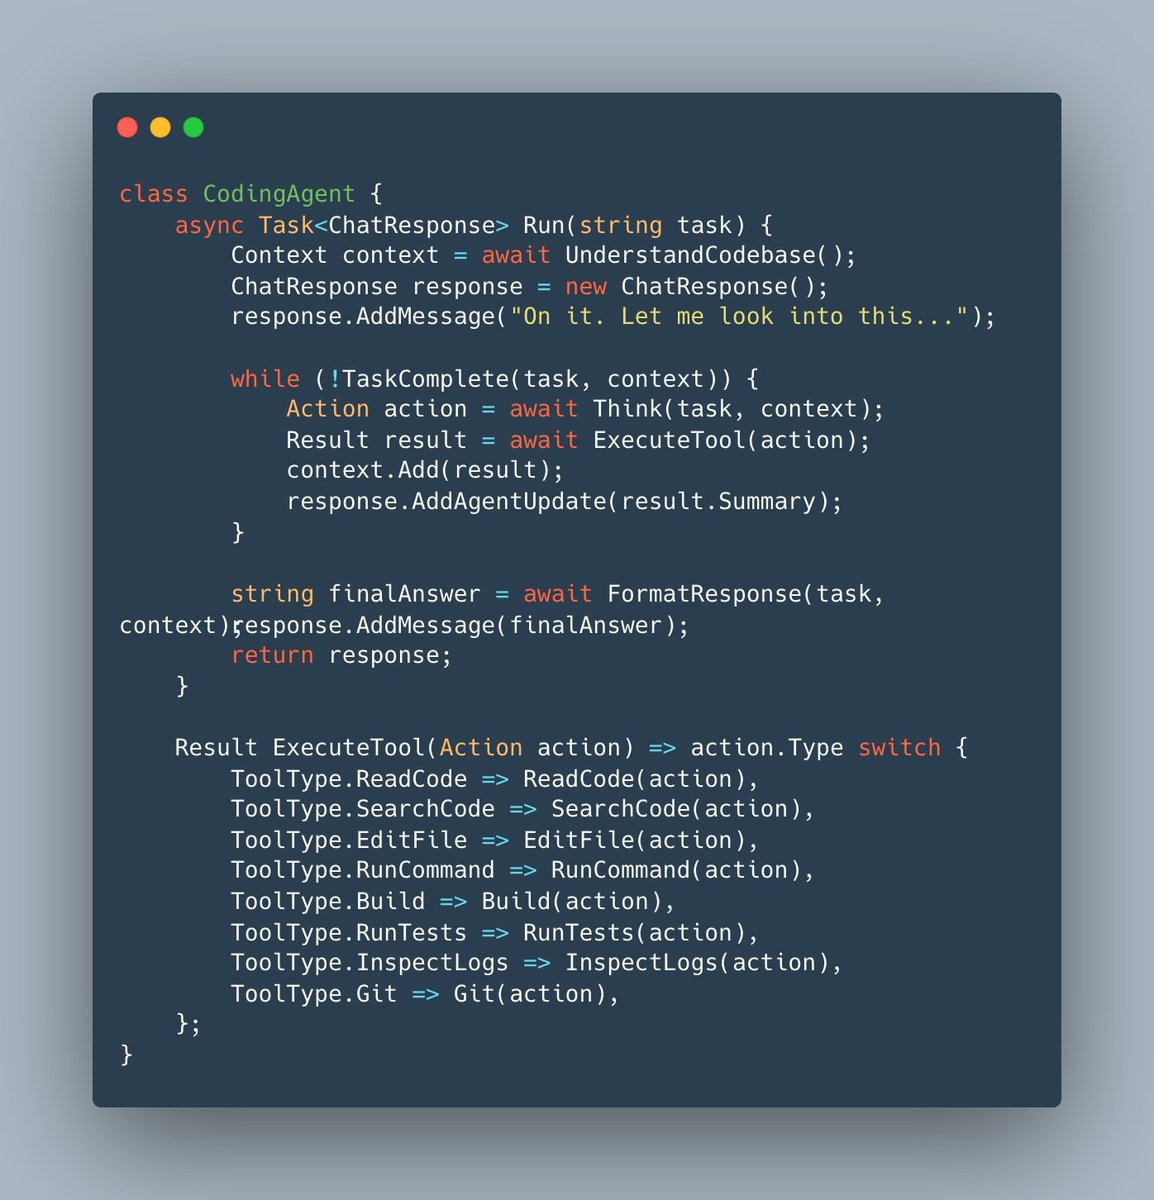
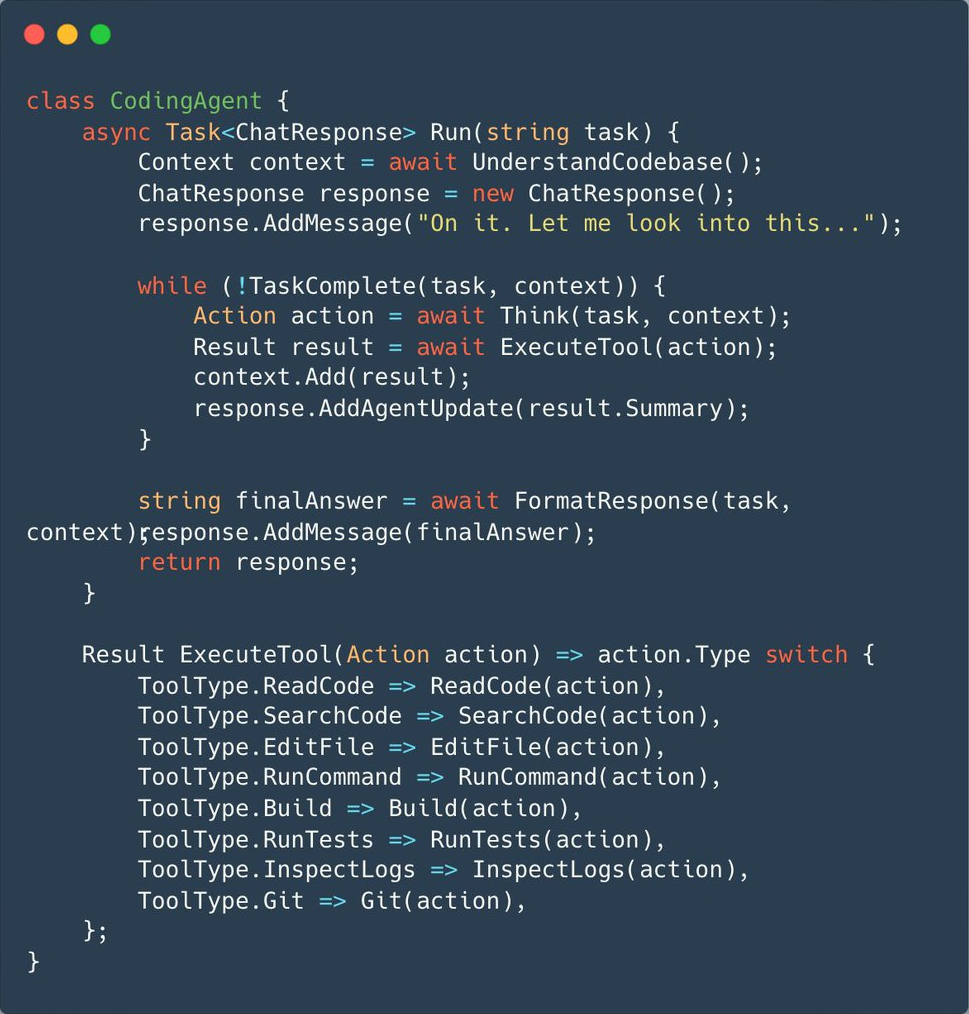
For-loop slide: statement as title, cropped code image at max size

diff --git a/index.html b/index.html
@@ -211,13 +211,10 @@
         <p>To speed up the pipeline with AI, we need to understand what we're working with.</p>
       </section>
 
-      <section class="slide">
+      <section class="slide" style="padding-bottom: 28px">
         <div class="kicker">Develop an intuition for agents</div>
-        <h2>A coding agent is a <code class="accent">for</code> loop</h2>
-        <div class="cols wide-right">
-          <p class="big" style="font-size: 34px; font-weight: 700; align-self: center">You wield a <code class="accent">for</code> loop at your fingertips.</p>
-          <div class="figure"><img src="assets/coding-agent-loop.png" alt="Pseudo-code: a CodingAgent class that loops while the task is incomplete, thinking and executing tools"></div>
-        </div>
+        <h2 style="margin-bottom: 20px">You wield a <code class="accent">for</code> loop at your fingertips</h2>
+        <div class="figure" style="flex: 1"><img src="assets/coding-agent-loop.png" alt="Pseudo-code: a CodingAgent class that loops while the task is incomplete, thinking and executing tools"></div>
         <aside class="notes">
           <p>When interacting with a coding agent, it helps to understand the underlying code they're running. They are essentially for loops.</p>
           <p>Think, call a tool, add the result to context, repeat, until TaskComplete returns true.</p>
